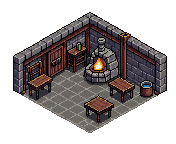
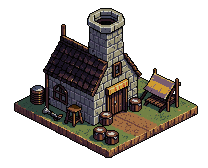
대장간을 바깥에서 본 건물로 — 실내 컷어웨이는 마을에 방이 떠 있는 꼴이었다
2차 마을 에셋 9장 중 대장간만 채택. 나머지 여덟은 기존 것이 낫다
(입구는 낮은 돌담이 되고, 상점은 건물이 사라져 좌판만 남고, 통은
화로가 됐다). 그림이 바뀌면 화덕 불빛도 따라 옮긴다 — 따뜻한 화소
무게중심 기준 발에서 +24, -46.

diff --git a/js/town.js b/js/town.js
@@ -109,7 +109,11 @@ export function drawTown(ctx, w, h, cx, cy, sc, squash, t) {
     const gx = wx(rx), gy = wy(ry);
     place(ctx, im, gx, gy);
     // 대장간 화덕과 입구 등불은 **제 둘레를 밝힌다**
-    if (id === "forge") addGlow(gx + 14 * sc, gy - 46 * sc * squash, 150 * sc, 1.0);
+    /* ★ 대장간 그림을 **바깥에서 본 건물**로 바꾸면서(예전 것은 벽이 잘린 실내라
+       마을 한복판에 방이 하나 떠 있는 꼴이었다) 불이 있는 자리가 오른쪽으로 옮겨갔다.
+       빛은 **그림의 따뜻한 화소 무게중심**에 놓는다 — 그림을 바꾸면 빛도 따라 옮긴다
+       (안 옮기면 창문은 캄캄한데 엉뚱한 벽이 밝다). 현재 그림 기준 발에서 +24, -46. */
+    if (id === "forge") addGlow(gx + 24 * sc, gy - 46 * sc * squash, 160 * sc, 1.0);
     if (id === "gate")  addGlow(gx, gy - 70 * sc * squash, 90 * sc, 0.7);
     /* NPC 는 가게 **앞에** 선다 — 사람이 없으면 좌판이 아니라 폐허다. */
     const npcIm = npc[NPC_OF[id]];
